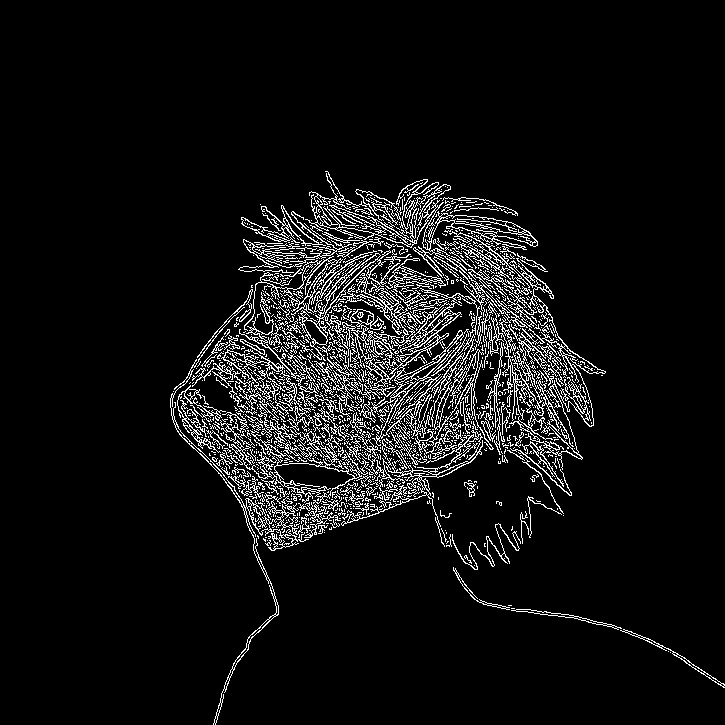
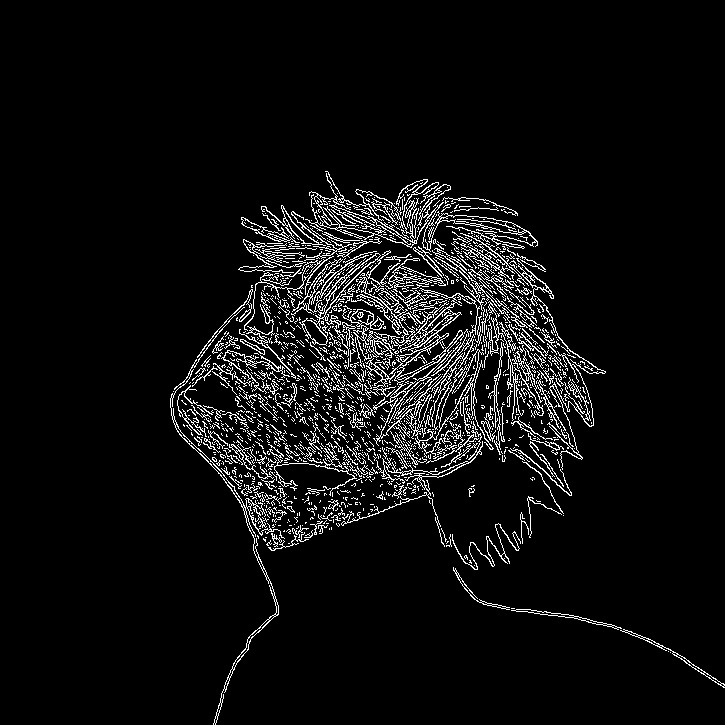
ЛР1: добавление оптимизаций при сдаче

diff --git a/implementation/custom_image_processing.py b/implementation/custom_image_processing.py
@@ -21,6 +21,9 @@ import interfaces
 
 import numpy as np
 
+from time_measure import measure_time
+from numba import njit, prange
+
 max_pixel_value = 255.0
 
 red_coefficient = 0.299
@@ -74,6 +77,7 @@ class CustomImageProcessing(interfaces.IImageProcessing):
         circle_detection(image): Обнаруживает окружности (HoughCircles).
     """
 
+    @measure_time
     def _convolution(
             self: "CustomImageProcessing",
             image: np.ndarray,
@@ -97,6 +101,11 @@ class CustomImageProcessing(interfaces.IImageProcessing):
             mode="reflect",
         )
 
+        return self.conv(image, padded, kernel_height, kernel_width, kernel)
+
+    @staticmethod
+    @njit
+    def conv(image, padded, kernel_height, kernel_width, kernel):
         output = np.zeros_like(image)
         for rows in range(image.shape[0]):
             for cols in range(image.shape[1]):
@@ -160,6 +169,7 @@ class CustomImageProcessing(interfaces.IImageProcessing):
 
         return (corrected * max_pixel_value).astype(np.uint8)
 
+    @measure_time
     def edge_detection(self: "CustomImageProcessing", image: np.ndarray) -> np.ndarray:
         """
         Выполняет обнаружение границ на изображении.
@@ -189,7 +199,8 @@ class CustomImageProcessing(interfaces.IImageProcessing):
 
         return gradient_magnitude.astype(np.uint8)
 
-    def corner_detection(self: "CustomImageProcessing", image: np.ndarray) -> np.ndarray:
+    @measure_time
+    def corner_detection(self, image: np.ndarray) -> np.ndarray:
         """
         Выполняет обнаружение углов на изображении с помощью детектора Харриса.
 
@@ -212,7 +223,7 @@ class CustomImageProcessing(interfaces.IImageProcessing):
         return result
 
     def _compute_harris_response(
-            self: "CustomImageProcessing",
+            self,
             gray_image: np.ndarray,
             harris_coefficient: float,
     ) -> np.ndarray:
@@ -246,6 +257,7 @@ class CustomImageProcessing(interfaces.IImageProcessing):
             return np.zeros_like(harris_response)
 
     @staticmethod
+    @njit
     def _find_adaptive_threshold(
             response_norm: np.ndarray,
             target_corners_number: int,
@@ -271,7 +283,7 @@ class CustomImageProcessing(interfaces.IImageProcessing):
         return max(0.1, min(0.9, threshold))
 
     def _find_corners_with_adaptive_threshold(
-            self: "CustomImageProcessing",
+            self,
             normalized_response: np.ndarray,
             target_corners: int,
     ) -> np.ndarray:
@@ -303,6 +315,7 @@ class CustomImageProcessing(interfaces.IImageProcessing):
         return local_maxima_mask
 
     @staticmethod
+    @njit
     def _visualize_corners(image: np.ndarray, corners_mask: np.ndarray) -> np.ndarray:
         """Визуализирует найденные углы на изображении."""
         result_image = image.copy().astype(np.uint8)
@@ -325,7 +338,7 @@ class CustomImageProcessing(interfaces.IImageProcessing):
         return result_image
 
     def circle_detection(
-            self: "CustomImageProcessing",
+            self,
             image: np.ndarray,
     ) -> np.ndarray:
         """

diff --git a/implementation/image_processing.py b/implementation/image_processing.py
@@ -18,6 +18,7 @@ import cv2
 import numpy as np
 
 import interfaces
+from time_measure import measure_time
 
 
 class ImageProcessing(interfaces.IImageProcessing):
@@ -100,6 +101,7 @@ class ImageProcessing(interfaces.IImageProcessing):
         )
         return cv2.LUT(image, table)
 
+    @measure_time
     def edge_detection(self, image: np.ndarray) -> np.ndarray:
         """
         Выполняет обнаружение границ на изображении.
@@ -114,9 +116,10 @@ class ImageProcessing(interfaces.IImageProcessing):
             np.ndarray: Одноканальное изображение с выделенными границами.
         """
         gray = self._rgb_to_grayscale(image)
-        edges = cv2.Canny(gray, 100, 200)
+        edges = cv2.Canny(gray, 200, 300)
         return edges
 
+    @measure_time
     def corner_detection(self, image: np.ndarray) -> np.ndarray:
         """
         Выполняет обнаружение углов на изображении.

diff --git a/time_measure.py b/time_measure.py
@@ -1,0 +1,12 @@
+import time
+
+
+def measure_time(func):
+    def wrapper(*args, **kwargs):
+        start_time = time.time()
+        result = func(*args, **kwargs)
+        end_time = time.time()
+        print(f"{func.__name__} выполнено за {end_time - start_time:.4f} секунд")
+        return result
+
+    return wrapper
